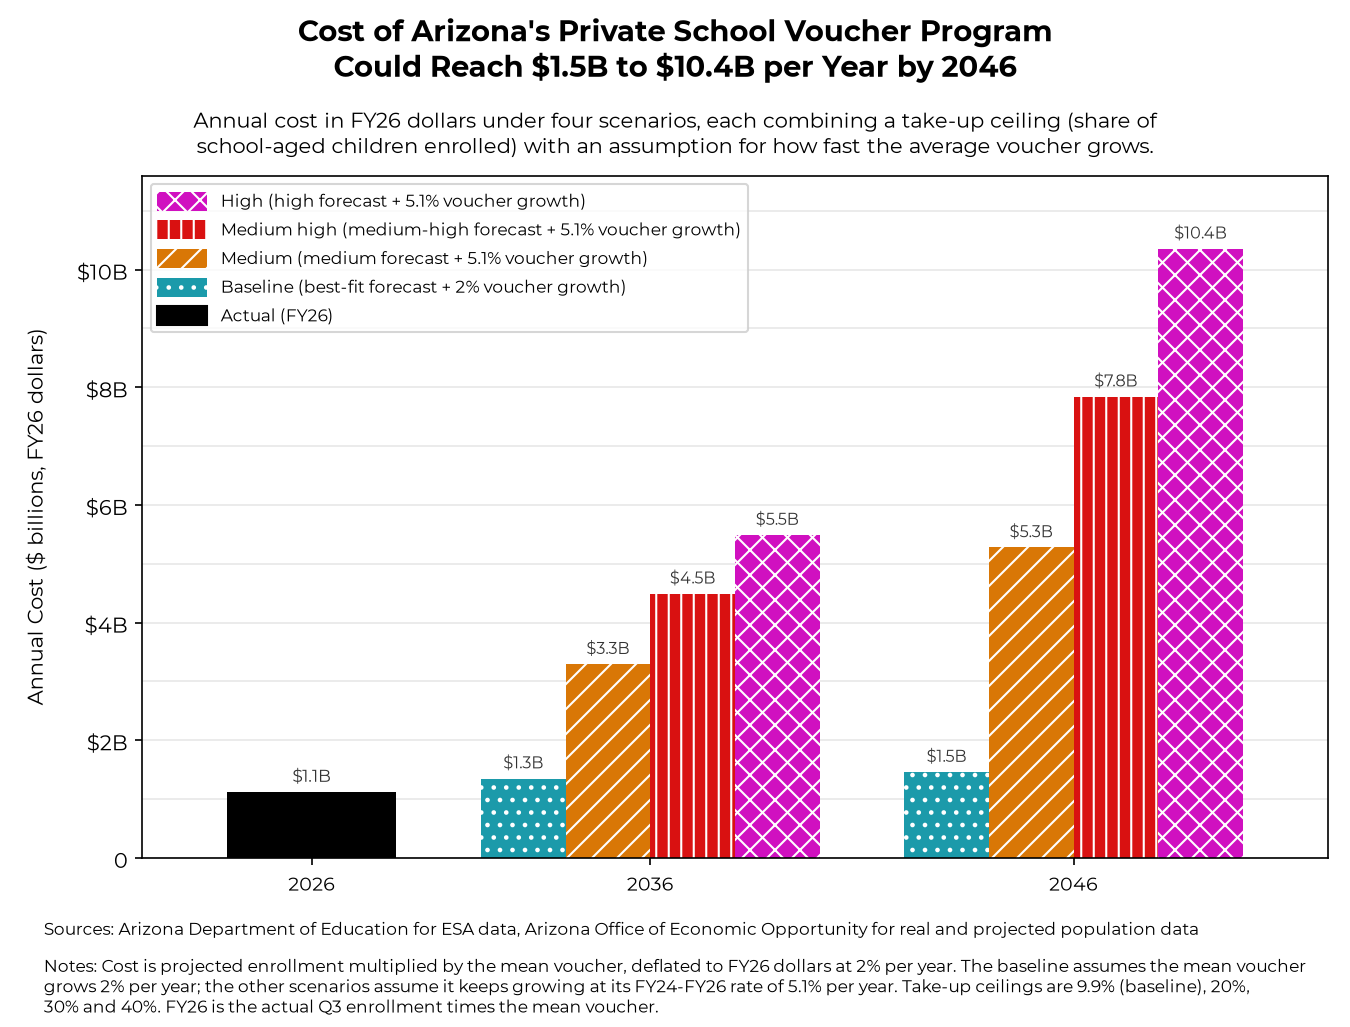
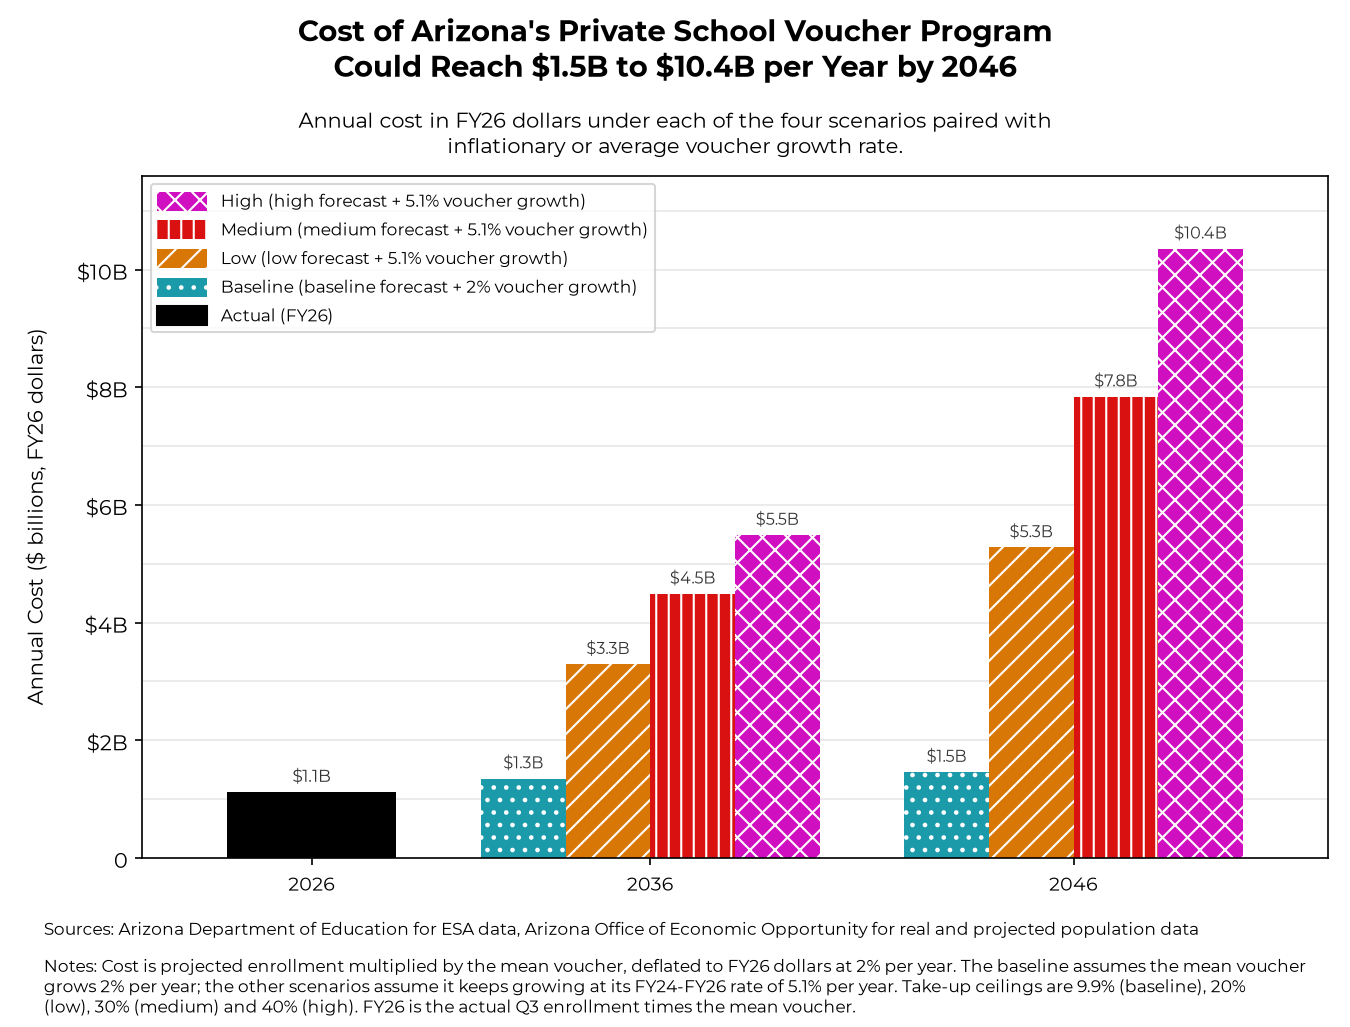
Add 16:9 forecast slide; rename scenarios to baseline/low/medium/high

Changed region(s): [[0.1556, 0.0935, 0.84, 0.1558], [0.1556, 0.2181, 0.56, 0.3116], [0.0311, 0.9659, 0.6222, 0.9971]]

diff --git a/src/voucher_growth_model/plots/plot_forecast_enrollment.py b/src/voucher_growth_model/plots/plot_forecast_enrollment.py
@@ -17,9 +17,9 @@ SCENARIO_COLORS_5_19 = {"k9.9": "#1B9AAA", "k20": "#D97706", "k30": "#D91111", "
 # Distinct dash patterns so lines stay separable in greyscale and for colour-blind readers
 SCENARIO_STYLES_5_19 = {"k9.9": (0, (1, 2)), "k20": (0, (4, 2)), "k30": (0, (5, 2, 1, 2)), "k40": (0, (9, 3))}
 SCENARIO_LABELS_5_19 = {
-    "k9.9": "Best-fit forecast (9.9% take-up ceiling)",
-    "k20": "Medium forecast (20% take-up ceiling)",
-    "k30": "Medium-high forecast (30% take-up ceiling)",
+    "k9.9": "Baseline forecast (9.9% take-up ceiling)",
+    "k20": "Low forecast (20% take-up ceiling)",
+    "k30": "Medium forecast (30% take-up ceiling)",
     "k40": "High forecast (40% take-up ceiling)",
 }
 # Montserrat (OFL) is bundled in <repo root>/fonts
@@ -38,6 +38,7 @@ NOTES = ("Notes: Actual enrollment is the Q3 count in each fiscal year. Take-up 
          "ceiling. The 9.9% ceiling is the logistic best fit to FY23-FY26 take-up.")
 NOTES_WRAP = 148  # characters per notes line
 NOTES_LINE_HEIGHT = 0.0207  # figure fraction per 8 pt line
+NOTES_CLEARANCE = 0.45  # inches from the plot area's bottom edge to the top of the notes, past the tick labels
 FIG_HEIGHT = 6.85  # inches
 SAVE_DPI = 150
 POP_LABELS ={"total": "total", "5_19": "school-aged"}
@@ -46,7 +47,21 @@ SUBTITLE = ("Arizona's Empowerment Scholarship Account (ESA) voucher program was
             "could play out, each capped at a different share of school-aged children enrolled (the take-up ceiling).")
 
 
-def plot_forecast_enrollment(voucher_csv: Path, forecast_csv: Path, out_path: Path) -> None:
+def plot_forecast_enrollment(voucher_csv: Path, forecast_csv: Path, out_path: Path, figsize: tuple[float, float] = (9, FIG_HEIGHT),
+                             subtitle_wrap: int | None = None, notes_wrap: int = NOTES_WRAP,
+                             show_title: bool = True, subtitle_top: float = 0.72,
+                             center_subtitle: bool = False, show_source: bool = True,
+                             reserve_note_lines: int = 0) -> tuple[float, float]:
+    """subtitle_wrap re-wraps the subtitle to that many characters per line; None keeps its hand-set line breaks.
+
+    show_title=False omits the title; the plot area then starts just below the subtitle, which sits subtitle_top inches
+    from the top. center_subtitle centres the subtitle over the plot area instead of the figure. show_source=False
+    omits the sources line and moves the notes up into its place. reserve_note_lines keeps room below the plot area for
+    at least that many lines of notes, so the plot area does not grow when the notes are wrapped wider.
+
+    Returns the plot area's (bottom, top) as figure fractions, so another chart can be aligned to it."""
+    height = figsize[1]
+    scale = FIG_HEIGHT / height  # converts the figure-fraction constants tuned for FIG_HEIGHT
     v = pd.read_csv(voucher_csv, na_values=["N/A"])
     f = pd.read_csv(forecast_csv)
     # Enrollment does not depend on the voucher scenario
@@ -55,7 +70,7 @@ def plot_forecast_enrollment(voucher_csv: Path, forecast_csv: Path, out_path: Pa
     colors = dict(zip(scenarios, plt.cm.viridis([0.0, 0.35, 0.65, 0.9])))
     colors.update({k: c for k, c in SCENARIO_COLORS_5_19.items() if k in colors})
 
-    fig, ax = plt.subplots(figsize=(9, FIG_HEIGHT))
+    fig, ax = plt.subplots(figsize=figsize)
     ax.plot(v["year"], v["total_enroll"], color="black", marker="o", label="Actual enrollment (Q3)")
     for k in scenarios:
         s = f[f["takeup_scenario"] == k]
@@ -89,22 +104,43 @@ def plot_forecast_enrollment(voucher_csv: Path, forecast_csv: Path, out_path: Pa
     pop_label = POP_LABELS[f["pop_base"].iloc[0]]
     # Vertical positions are fixed distances in inches from the top/bottom edge
     end = f[f["fy"] == "FY46"]["enroll"]
-    fig.suptitle(TITLE.format(lo=end.min() / 1e3, hi=end.max() / 1e3), fontsize=14, fontweight="bold", y=1 - 0.09 / FIG_HEIGHT)
-    fig.text(0.5, 1 - 0.72 / FIG_HEIGHT, SUBTITLE.format(pre=v.loc[v["year"] == "FY22", "total_enroll"].iloc[0] / 1e3,
-                                                         now=v.loc[v["year"] == "FY26", "total_enroll"].iloc[0] / 1e3), ha="center", va="top", fontsize=10)
-    notes = textwrap.fill(NOTES.format(r=f["r"].iloc[0], y0=f.loc[f["fy"] == "FY26", "takeup"].iloc[0]), NOTES_WRAP)
-    notes_text = fig.text(0, 0.01, notes, ha="left", va="bottom", fontsize=8)
-    source_y = 0.01 + (notes.count("\n") + 1) * NOTES_LINE_HEIGHT + 0.0135
-    source_text = fig.text(0, source_y, SOURCE, ha="left", va="bottom", fontsize=8)
-    # Both blocks share one left edge, set so the wider block is centred on the figure
+    if show_title:
+        fig.suptitle(TITLE.format(lo=end.min() / 1e3, hi=end.max() / 1e3), fontsize=14, fontweight="bold", y=1 - 0.09 / height)
+    subtitle = SUBTITLE.format(pre=v.loc[v["year"] == "FY22", "total_enroll"].iloc[0] / 1e3,
+                               now=v.loc[v["year"] == "FY26", "total_enroll"].iloc[0] / 1e3)
+    if subtitle_wrap:
+        subtitle = textwrap.fill(subtitle.replace("\n", " "), subtitle_wrap)
+    subtitle_text = fig.text(0.5, 1 - subtitle_top / height, subtitle, ha="center", va="top", fontsize=10)
+    extra_top = (subtitle.count("\n") - 2) * 0.17  # inches for subtitle lines beyond the default three
+    # Without a title, the plot area starts 0.2 in below the subtitle (tight_layout adds ~0.15 in to the rect)
+    rect_top = 0.65 + extra_top if show_title else subtitle_top + (subtitle.count("\n") + 1) * 0.167 + 0.05
+    notes = textwrap.fill(NOTES.format(r=f["r"].iloc[0], y0=f.loc[f["fy"] == "FY26", "takeup"].iloc[0]), notes_wrap)
+    line_height = NOTES_LINE_HEIGHT * scale
+    source_y = (0.01 + 0.0135) * scale + max(notes.count("\n") + 1, reserve_note_lines) * line_height
+    source = textwrap.fill(SOURCE, notes_wrap)
+    rect_bottom = source_y + (source.count("\n") + 1) * line_height
+    if show_source:
+        notes_text = fig.text(0, 0.01 * scale, notes, ha="left", va="bottom", fontsize=8)
+        source_text = fig.text(0, source_y, source, ha="left", va="bottom", fontsize=8)
+        blocks = (notes_text, source_text)
+    else:  # notes move up to sit directly below the plot area, freeing the bottom edge for a shared sources line
+        notes_text = fig.text(0, rect_bottom, notes, ha="left", va="top", fontsize=8)
+        blocks = (notes_text,)
+    # Blocks share one left edge, set so the widest is centred on the figure
     fig.set_dpi(SAVE_DPI)  # measure text at the saved resolution; widths differ slightly at other dpi
     fig.canvas.draw()
-    widest = max(t.get_window_extent().width for t in (notes_text, source_text))
-    for t in (notes_text, source_text):
+    widest = max(t.get_window_extent().width for t in blocks)
+    for t in blocks:
         t.set_x((fig.bbox.width - widest) / 2 / fig.bbox.width)
-    fig.tight_layout(rect=(0, source_y + NOTES_LINE_HEIGHT, 1, 1 - 0.65 / FIG_HEIGHT))
+    fig.tight_layout(rect=(0, rect_bottom, 1, 1 - rect_top / height))
+    pos = ax.get_position()
+    if not show_source:
+        notes_text.set_y(pos.y0 - NOTES_CLEARANCE / height)
+    if center_subtitle:
+        subtitle_text.set_x((pos.x0 + pos.x1) / 2)
     out_path.parent.mkdir(parents=True, exist_ok=True)
     fig.savefig(out_path, dpi=SAVE_DPI)
+    return pos.y0, pos.y1
 
 
 if __name__ == "__main__":

diff --git a/src/voucher_growth_model/plots/plot_forecast_cost.py b/src/voucher_growth_model/plots/plot_forecast_cost.py
@@ -14,7 +14,7 @@ from matplotlib.ticker import MultipleLocator
 import pandas as pd
 
 from voucher_growth_model.plots.plot_forecast_enrollment import (
-    FIG_HEIGHT, NOTES_LINE_HEIGHT, NOTES_WRAP, SAVE_DPI, SCENARIO_COLORS_5_19,
+    FIG_HEIGHT, NOTES_CLEARANCE, NOTES_LINE_HEIGHT, NOTES_WRAP, SAVE_DPI, SCENARIO_COLORS_5_19,
 )
 
 SOURCE = ("Sources: Arizona Department of Education for ESA data, "
@@ -23,18 +23,18 @@ SOURCE = ("Sources: Arizona Department of Education for ESA data, "
 SHOWN_YEARS = ["FY26", "FY36", "FY46"]
 # (takeup scenario, voucher scenario, legend label), ascending cost
 SCENARIOS = [
-    ("k9.9", "infl2", "Baseline (best-fit forecast + 2% voucher growth)"),
-    ("k20", "hist", "Medium (medium forecast + {r:.1%} voucher growth)"),
-    ("k30", "hist", "Medium high (medium-high forecast + {r:.1%} voucher growth)"),
+    ("k9.9", "infl2", "Baseline (baseline forecast + 2% voucher growth)"),
+    ("k20", "hist", "Low (low forecast + {r:.1%} voucher growth)"),
+    ("k30", "hist", "Medium (medium forecast + {r:.1%} voucher growth)"),
     ("k40", "hist", "High (high forecast + {r:.1%} voucher growth)"),
 ]
 TITLE = ("Cost of Arizona's Private School Voucher Program\n"
          "Could Reach \\${lo:,.1f}B to \\${hi:,.1f}B per Year by 2046")
-SUBTITLE = ("Annual cost in FY26 dollars under four scenarios, each combining a take-up ceiling (share of\n"
-            "school-aged children enrolled) with an assumption for how fast the average voucher grows.")
+SUBTITLE = ("Annual cost in FY26 dollars under each of the four scenarios paired with\n"
+            "inflationary or average voucher growth rate.")
 NOTES = ("Notes: Cost is projected enrollment multiplied by the mean voucher, deflated to FY26 dollars at 2% per year. "
          "The baseline assumes the mean voucher grows 2% per year; the other scenarios assume it keeps growing at its "
-         "FY24-FY26 rate of {r:.1%} per year. Take-up ceilings are 9.9% (baseline), 20%, 30% and 40%. FY26 is the "
+         "FY24-FY26 rate of {r:.1%} per year. Take-up ceilings are 9.9% (baseline), 20% (low), 30% (medium) and 40% (high). FY26 is the "
          "actual Q3 enrollment times the mean voucher.")
 BAR_WIDTH = 0.2
 GROUP_GAP = 1 - 4 * BAR_WIDTH  # edge-to-edge gap between bar groups
@@ -43,14 +43,26 @@ HATCHES = {"k9.9": "..", "k20": "//", "k30": "||", "k40": "xx"}
 plt.rcParams["hatch.linewidth"] = 1.0
 
 
-def plot_forecast_cost(forecast_csv: Path, out_path: Path) -> None:
+def plot_forecast_cost(forecast_csv: Path, out_path: Path, figsize: tuple[float, float] = (9, FIG_HEIGHT),
+                       subtitle_wrap: int | None = None, notes_wrap: int = NOTES_WRAP,
+                       axes_y: tuple[float, float] | None = None, show_title: bool = True,
+                       subtitle_top: float = 0.72, center_subtitle: bool = False, show_source: bool = True) -> None:
+    """subtitle_wrap re-wraps the subtitle to that many characters per line; None keeps its hand-set line breaks.
+
+    show_title=False omits the title; the subtitle then sits subtitle_top inches from the top. center_subtitle centres
+    the subtitle over the plot area instead of the figure. show_source=False omits the sources line and moves the notes
+    up into its place.
+
+    axes_y pins the plot area's (bottom, top) as figure fractions, e.g. to line up with another chart."""
+    height = figsize[1]
+    scale = FIG_HEIGHT / height  # converts the figure-fraction constants tuned for FIG_HEIGHT
     f = pd.read_csv(forecast_csv)
     cost = f.set_index(["fy", "takeup_scenario", "voucher_scenario"])["cost_real_fy26"] / 1e9
     m = f[(f["voucher_scenario"] == "hist") & (f["takeup_scenario"] == SCENARIOS[0][0])].set_index("fy")["mean_voucher"]
     hist_rate = m["FY27"] / m["FY26"] - 1
     end = [cost[("FY46", k, v)] for k, v, _ in SCENARIOS]
 
-    fig, ax = plt.subplots(figsize=(9, FIG_HEIGHT))
+    fig, ax = plt.subplots(figsize=figsize)
     ticks = []
     for i, fy in enumerate(SHOWN_YEARS):
         ticks.append(i)
@@ -87,18 +99,38 @@ def plot_forecast_cost(forecast_csv: Path, out_path: Path) -> None:
     ] + [Patch(color="black", label="Actual (FY26)")]
     ax.legend(handles=handles, fontsize=8, loc="upper left", handlelength=3, handleheight=1.4)
 
-    fig.suptitle(TITLE.format(lo=min(end), hi=max(end)), fontsize=14, fontweight="bold", y=1 - 0.09 / FIG_HEIGHT)
-    fig.text(0.5, 1 - 0.72 / FIG_HEIGHT, SUBTITLE, ha="center", va="top", fontsize=10)
-    notes = textwrap.fill(NOTES.format(r=hist_rate), NOTES_WRAP)
-    notes_text = fig.text(0, 0.01, notes, ha="left", va="bottom", fontsize=8)
-    source_y = 0.01 + (notes.count("\n") + 1) * NOTES_LINE_HEIGHT + 0.0135
-    source_text = fig.text(0, source_y, SOURCE, ha="left", va="bottom", fontsize=8)
+    if show_title:
+        fig.suptitle(TITLE.format(lo=min(end), hi=max(end)), fontsize=14, fontweight="bold", y=1 - 0.09 / height)
+    subtitle = textwrap.fill(SUBTITLE.replace("\n", " "), subtitle_wrap) if subtitle_wrap else SUBTITLE
+    subtitle_text = fig.text(0.5, 1 - subtitle_top / height, subtitle, ha="center", va="top", fontsize=10)
+    extra_top = (subtitle.count("\n") - 1) * 0.17  # inches for subtitle lines beyond the default two
+    rect_top = 0.4 + extra_top if show_title else subtitle_top + (subtitle.count("\n") + 1) * 0.167 + 0.05
+    notes = textwrap.fill(NOTES.format(r=hist_rate), notes_wrap)
+    line_height = NOTES_LINE_HEIGHT * scale
+    source_y = (0.01 + 0.0135) * scale + (notes.count("\n") + 1) * line_height
+    source = textwrap.fill(SOURCE, notes_wrap)
+    rect_bottom = source_y + (source.count("\n") + 1) * line_height
+    if show_source:
+        notes_text = fig.text(0, 0.01 * scale, notes, ha="left", va="bottom", fontsize=8)
+        source_text = fig.text(0, source_y, source, ha="left", va="bottom", fontsize=8)
+        blocks = (notes_text, source_text)
+    else:  # notes move up to sit directly below the plot area, freeing the bottom edge for a shared sources line
+        notes_text = fig.text(0, rect_bottom, notes, ha="left", va="top", fontsize=8)
+        blocks = (notes_text,)
     fig.set_dpi(SAVE_DPI)
     fig.canvas.draw()
-    widest = max(t.get_window_extent().width for t in (notes_text, source_text))
-    for t in (notes_text, source_text):
+    widest = max(t.get_window_extent().width for t in blocks)
+    for t in blocks:
         t.set_x((fig.bbox.width - widest) / 2 / fig.bbox.width)
-    fig.tight_layout(rect=(0, source_y + NOTES_LINE_HEIGHT, 1, 1 - 0.4 / FIG_HEIGHT))
+    fig.tight_layout(rect=(0, rect_bottom, 1, 1 - rect_top / height))
+    if axes_y:
+        pos = ax.get_position()
+        ax.set_position((pos.x0, axes_y[0], pos.width, axes_y[1] - axes_y[0]))
+    pos = ax.get_position()
+    if not show_source:
+        notes_text.set_y(pos.y0 - NOTES_CLEARANCE / height)
+    if center_subtitle:
+        subtitle_text.set_x((pos.x0 + pos.x1) / 2)
     out_path.parent.mkdir(parents=True, exist_ok=True)
     fig.savefig(out_path, dpi=SAVE_DPI)
 

diff --git a/src/voucher_growth_model/plots/plot_forecast_slide.py b/src/voucher_growth_model/plots/plot_forecast_slide.py
@@ -1,0 +1,59 @@
+"""Enrollment and cost forecast charts side by side on one 16:9 canvas under a single title.
+
+Usage (from the repo root):
+    uv run python -m voucher_growth_model.plots.plot_forecast_slide <final_data> <forecast_csv> <out_png>
+"""
+
+import sys
+import tempfile
+from pathlib import Path
+
+import matplotlib.pyplot as plt
+import numpy as np
+import pandas as pd
+from PIL import Image
+
+from voucher_growth_model.plots.plot_forecast_cost import SCENARIOS, plot_forecast_cost
+from voucher_growth_model.plots.plot_forecast_enrollment import SAVE_DPI, TITLE as ENROLLMENT_TITLE, plot_forecast_enrollment
+
+CANVAS_SIZE = (16, 9)  # inches
+# Panel sizes in inches; widths sum to the canvas width. Wraps are characters per line at that width.
+ENROLLMENT = dict(figsize=(9.5, 9), subtitle_wrap=112, notes_wrap=145, reserve_note_lines=5)
+COST = dict(figsize=(6.5, 9), subtitle_wrap=68, notes_wrap=100)  # same height, so plot areas can line up
+TITLE_FONTSIZE = 17  # the largest size that keeps the title on one line
+PANEL = dict(show_title=False, subtitle_top=0.57, center_subtitle=True, show_source=False)
+SOURCE = ("Sources: Arizona Department of Education for ESA data, "
+          "Arizona Office of Economic Opportunity for population data")  # the slide's single title replaces panel titles
+COST_TITLE = "; Cost Could Reach \\${lo:,.1f}B to \\${hi:,.1f}B"
+
+
+def plot_forecast_slide(voucher_csv: Path, forecast_csv: Path, out_path: Path) -> None:
+    with tempfile.TemporaryDirectory() as tmp:
+        left, right = Path(tmp) / "enrollment.png", Path(tmp) / "cost.png"
+        axes_y = plot_forecast_enrollment(voucher_csv, forecast_csv, left, **PANEL, **ENROLLMENT)
+        plot_forecast_cost(forecast_csv, right, axes_y=axes_y, **PANEL, **COST)  # bars level with the line graph
+        images = [Image.open(p).convert("RGB") for p in (left, right)]
+    canvas = Image.new("RGB", (sum(im.width for im in images), max(im.height for im in images)), "white")
+    x = 0
+    for im in images:
+        canvas.paste(im, (x, 0))
+        x += im.width
+
+    f = pd.read_csv(forecast_csv)
+    f46 = f[f["fy"] == "FY46"]
+    enroll = f46["enroll"].drop_duplicates() / 1e3
+    cost = [f46[(f46["takeup_scenario"] == k) & (f46["voucher_scenario"] == v)]["cost_real_fy26"].iloc[0] / 1e9
+            for k, v, _ in SCENARIOS]
+    title = (ENROLLMENT_TITLE.format(lo=enroll.min(), hi=enroll.max()).replace("\n", " ")
+             + COST_TITLE.format(lo=min(cost), hi=max(cost)))
+
+    fig = plt.figure(figsize=CANVAS_SIZE, dpi=SAVE_DPI)
+    fig.figimage(np.asarray(canvas), 0, 0)  # pixel-exact, so the panels are not resampled
+    fig.suptitle(title, fontsize=TITLE_FONTSIZE, fontweight="bold", y=1 - 0.09 / CANVAS_SIZE[1])
+    fig.text(0.5, 0.012, SOURCE, ha="center", va="bottom", fontsize=8)
+    out_path.parent.mkdir(parents=True, exist_ok=True)
+    fig.savefig(out_path, dpi=SAVE_DPI)
+
+
+if __name__ == "__main__":
+    plot_forecast_slide(Path(sys.argv[1]), Path(sys.argv[2]), Path(sys.argv[3]))
